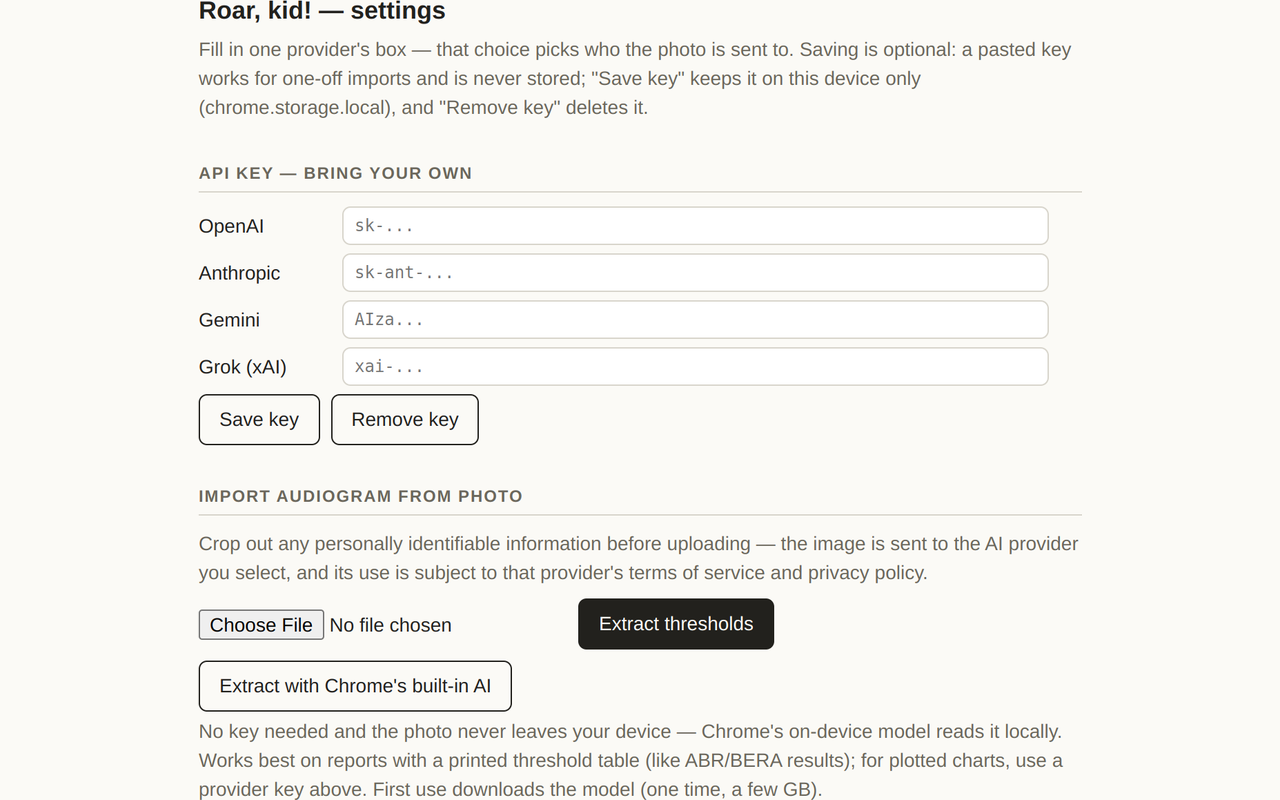
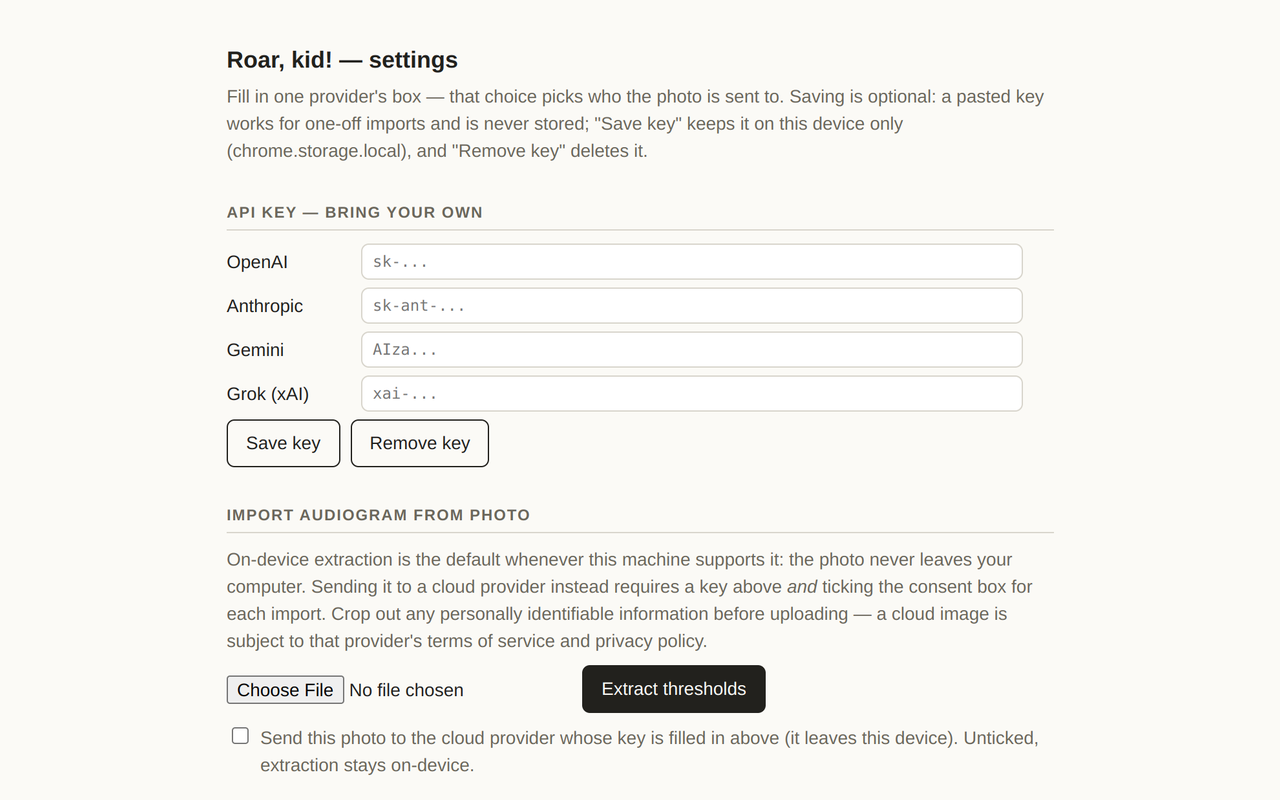
Refresh store screenshots for the 0.5.0 UI
01 and 02 regenerated with tools/retake_v050.py (popup with target
selector and WDRC toggle; options keys + import as a section crop — the
full options page is now too tall to fit one frame legibly). New 04
shows the loudness-anchor section. 03 (YouTube hero) still needs its
manual toolbar-popup retake and is flagged as such. Raw captures
ignored per the SCREENSHOTS.md rule.

Changed region(s): [[0.1562, 0.0, 0.8438, 1.0]]

diff --git a/store-screenshots/tools/retake_v050.py b/store-screenshots/tools/retake_v050.py
@@ -1,0 +1,105 @@
+"""Retake store shots 01 (popup) and 02 (options) for the 0.5.0 UI.
+
+Same recipe as shots.py + options_en.py (see SCREENSHOTS.md), with the
+0.5.0 settings shape seeded: redFlagsAck acknowledged so the first-run
+notice doesn't cover the chart, comfort target, fast WDRC. Shot 03
+(popup over YouTube) stays manual — Playwright can't click the toolbar.
+"""
+
+import os, pathlib
+
+# Native widgets (e.g. <input type=file>) follow the OS locale, not --lang.
+os.environ["LANGUAGE"] = "en_US.UTF-8"
+os.environ["LC_ALL"] = "en_US.UTF-8"
+os.environ["LANG"] = "en_US.UTF-8"
+
+from playwright.sync_api import sync_playwright
+from PIL import Image, ImageChops, ImageDraw
+
+EXT = "/home/guilherme-burzynski-dienes/Documentos/script/roar-kid/roar-kid-store"
+RAW = pathlib.Path(__file__).parent / "raw"
+OUT = pathlib.Path("/home/guilherme-burzynski-dienes/Documentos/script/roar-kid/store-screenshots")
+RAW.mkdir(exist_ok=True)
+PAPER = (251, 250, 246)
+
+# Throwaway curves (same plausible mild sloping loss as the 0.3.0 shots).
+SETTINGS = {
+    "enabled": True,
+    "right": [15, 20, 25, 30, 35, 40, 40, 35],
+    "left":  [10, 15, 20, 25, 30, 35, 40, 40],
+    "masterVolume": 1.0,
+    "targetMode": "comfort",
+    "wdrcSpeed": "fast",
+    "redFlagsAck": True,  # notice already acknowledged; show the working UI
+}
+
+with sync_playwright() as p:
+    ctx = p.chromium.launch_persistent_context(
+        str(RAW / "profile-v050"),
+        headless=False,
+        viewport={"width": 1280, "height": 1200},
+        device_scale_factor=2,
+        locale="en-US",
+        args=[
+            f"--disable-extensions-except={EXT}",
+            f"--load-extension={EXT}",
+            "--window-size=1300,900",
+            "--lang=en-US",
+            "--mute-audio",
+        ],
+    )
+    pg = ctx.new_page()
+    pg.goto("chrome://extensions")
+    pg.wait_for_timeout(500)
+    ext_id = pg.evaluate("""() => {
+        const mgr = document.querySelector('extensions-manager');
+        const list = mgr.shadowRoot.querySelector('extensions-item-list');
+        return [...list.shadowRoot.querySelectorAll('extensions-item')].map(i => i.id)[0];
+    }""")
+    if not ext_id:
+        raise RuntimeError("extension did not load")
+    print("extension id:", ext_id)
+
+    pg.goto(f"chrome-extension://{ext_id}/popup.html")
+    pg.evaluate("s => chrome.storage.sync.set(s)", SETTINGS)
+    pg.reload()
+    pg.wait_for_timeout(600)
+    pg.screenshot(path=str(RAW / "popup_v050.png"), full_page=True)
+    print("popup captured")
+
+    pg.goto(f"chrome-extension://{ext_id}/options.html")
+    pg.wait_for_timeout(600)
+    pg.screenshot(path=str(RAW / "options_v050.png"), full_page=True)
+    print("options captured")
+    ctx.close()
+
+def trim_to_content(img, bg=PAPER, pad=16):
+    base = Image.new("RGB", img.size, bg)
+    bbox = ImageChops.difference(img.convert("RGB"), base).getbbox()
+    l, t, r, b = bbox
+    l = max(0, l - pad); t = max(0, t - pad)
+    r = min(img.width, r + pad); b = min(img.height, b + pad)
+    return img.crop((l, t, r, b))
+
+# 01 popup: trim, frame centered on paper with a hairline border
+popup = trim_to_content(Image.open(RAW / "popup_v050.png"))
+canvas = Image.new("RGB", (1280, 800), PAPER)
+target_h = 744
+scale = target_h / popup.height
+card = popup.resize((round(popup.width * scale), target_h), Image.LANCZOS)
+x = (1280 - card.width) // 2
+y = (800 - card.height) // 2
+canvas.paste(card, (x, y))
+d = ImageDraw.Draw(canvas)
+d.rectangle([x - 1, y - 1, x + card.width, y + card.height], outline=(216, 213, 204), width=1)
+canvas.save(OUT / "01-popup-audiogram-1280x800.png")
+print("popup composed:", card.size)
+
+# 02 options: fit the full page into the frame
+opt = trim_to_content(Image.open(RAW / "options_v050.png").convert("RGB"), pad=48)
+canvas = Image.new("RGB", (1280, 800), PAPER)
+scale = min(1280 / opt.width, 800 / opt.height)
+fit = opt.resize((round(opt.width * scale), round(opt.height * scale)), Image.LANCZOS)
+canvas.paste(fit, ((1280 - fit.width) // 2, (800 - fit.height) // 2))
+canvas.save(OUT / "02-options-import-1280x800.png")
+print("options composed:", fit.size)

diff --git a/roar-kid/STORE_SUBMISSION.md b/roar-kid/STORE_SUBMISSION.md
@@ -104,15 +104,15 @@ review rejects remotely hosted code.
 
 ## Assets
 
-Screenshots: three 1280×800 PNGs in `store-screenshots/`, refreshed
-2026-07-19 to the **0.3.0** UI (popup with the AI-import link and 15 dB
-shaded band; options page with the one-key provider flow and the Chrome
-built-in AI option; theater-mode YouTube with the popup open). All plotted
-curves are throwaway data, and no third-party brand imagery is in frame.
-STALE for 0.5.0: the popup gained the target selector and level readout,
-and the options page gained calibration — refresh before or shortly after
-the 0.5.0 upload via `store-screenshots/tools/` + the recipe in
-`SCREENSHOTS.md`.
+Screenshots: four 1280×800 PNGs in `store-screenshots/`, refreshed
[phone redacted] for **0.5.0** (`tools/retake_v050.py`): 01 popup with target
+selector + WDRC toggle, 02 options keys + photo import, 04 options
+loudness-anchor section (new). All plotted curves are throwaway data, no
+third-party brand imagery in frame. Dashboard order: 03, 01, 02, 04.
+Remaining gap: 03 (the YouTube hero shot) still shows the 0.3.0 popup —
+it needs the manual toolbar-popup retake in `SCREENSHOTS.md`; fine to
+ship as-is and swap later (listing-image edits don't trigger package
+re-review).
 Optional small promo tile 440×280 — not made.
 
 ## Submission steps (first-time — done 2026-07-19, kept for reference)

diff --git a/SCREENSHOTS.md b/SCREENSHOTS.md
@@ -11,9 +11,10 @@ future-you reusing the technique on another project (bottom half).
 
 | File | Content | Status |
 |------|---------|--------|
-| `01-popup-audiogram-1280x800.png` | Popup with a plausible mild sloping-loss audiogram plotted (both ears) | ✅ done |
-| `02-options-import-1280x800.png` | Options page: BYOK keys + photo import, English UI | ✅ done |
-| `03-youtube-popup-1280x800.png` | YouTube (theater mode, Big Buck Bunny title card) with the popup open over it | ✅ done (taken manually 2026-07-19, cropped to 1280×800) |
+| `01-popup-audiogram-1280x800.png` | Popup with a plausible mild sloping-loss audiogram, target selector (comfort/adult/child), WDRC speed toggle | ✅ refreshed 2026-07-20 for 0.5.0 (`tools/retake_v050.py`) |
+| `02-options-import-1280x800.png` | Options page, keys + photo-import section (on-device default, cloud consent checkbox) | ✅ refreshed 2026-07-20 for 0.5.0 — now a section crop; the full page grew too tall to fit one frame legibly |
+| `03-youtube-popup-1280x800.png` | YouTube (theater mode, Big Buck Bunny) with the popup open over it | ⚠️ still shows the **0.3.0** popup (no target selector) — manual retake needed, steps below |
+| `04-options-anchor-1280x800.png` | Options page, loudness-anchor section ("relative until anchored" note visible) | ✅ new 2026-07-20 (`tools/retake_v050.py`) |
 
 ## Taking screenshot 3 manually
 
@@ -38,7 +39,13 @@ trivial:
    player both visible.
 6. Save as `store-screenshots/03-youtube-popup-1280x800.png`.
 
-Dashboard accepts up to 5 screenshots; order them 03 (hero), 01, 02.
+Dashboard accepts up to 5 screenshots; order them 03 (hero), 01, 02, 04.
+
+For automated retakes after a UI change, `tools/retake_v050.py` is the
+current script: seeds the 0.5.0 settings shape (`redFlagsAck: true` so the
+first-run notice doesn't cover the chart), captures popup + options, and
+composes 01, 02, and 04 (the options page is section-cropped — as one
+frame the full page scales to illegibility).
 
 ---
 